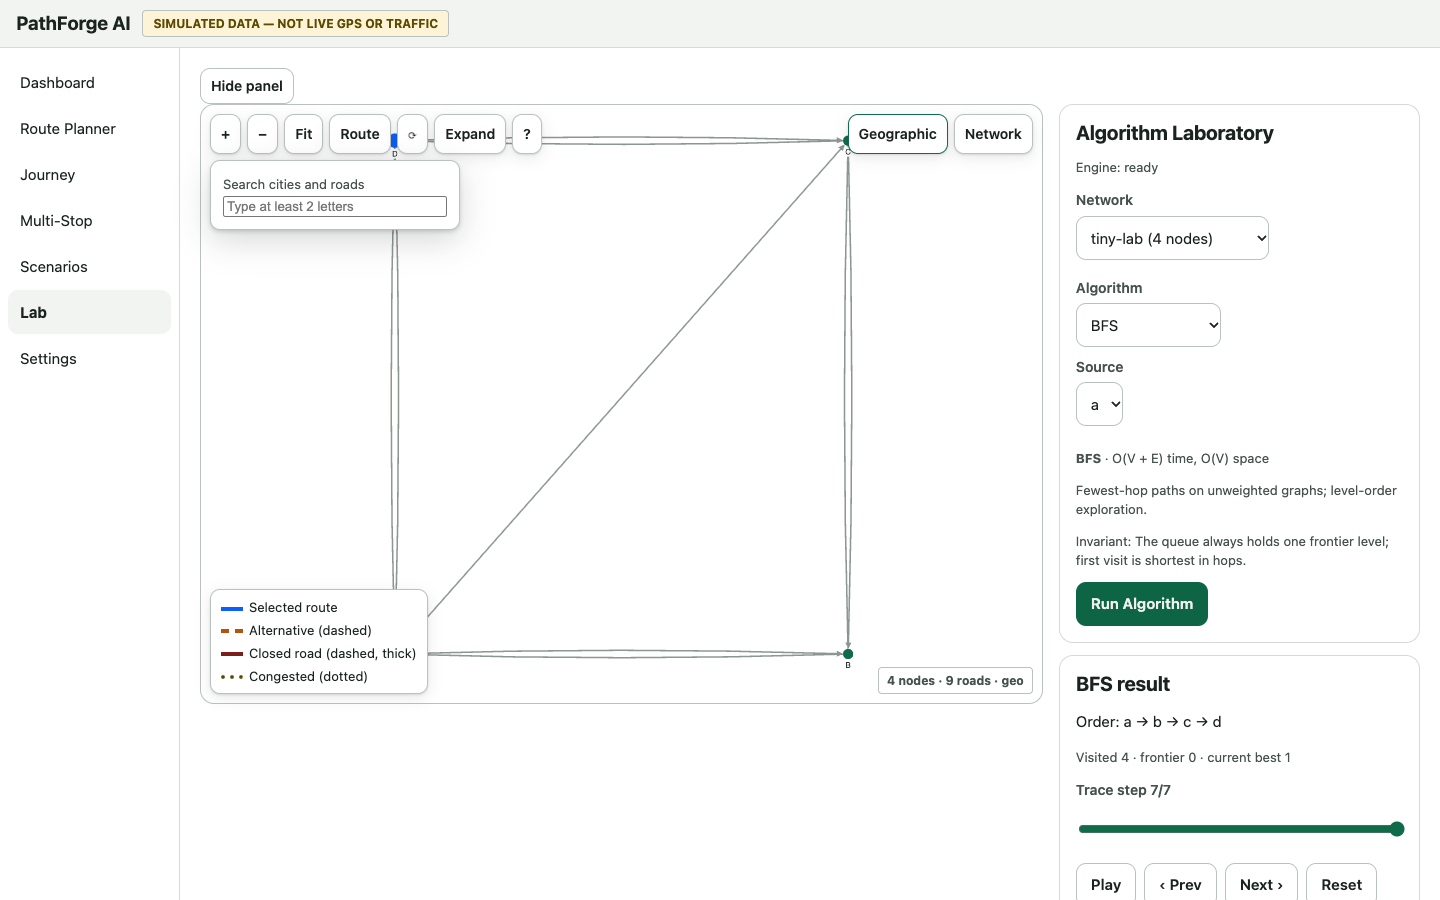
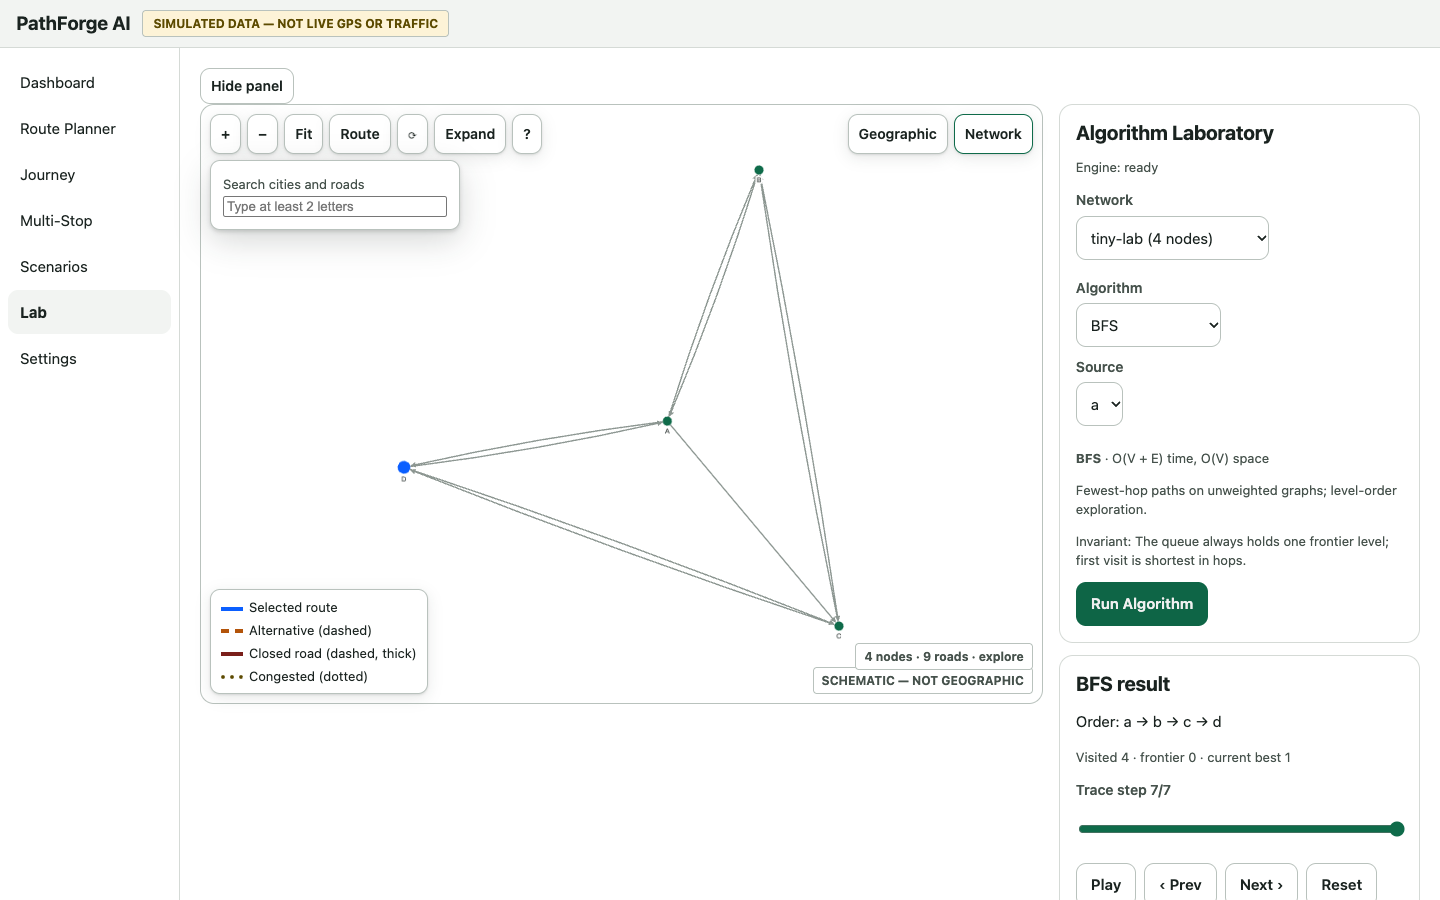
U9: redesign E2E, visual QA fixes, remeasured gates
- e2e/redesign.spec.ts: map controls/views/keyboard/inspectors,
  dashboard entries, panel toggle, lab playback/editor/compare,
  destructive confirms, 390px mobile (16/16 E2E green)
- Visual QA fixes: alt overlay skips shared arcs, route rule wins,
  fit padding 60, lab defaults to explore view, tab nowrap
- Parity 32/32, coverage remeasured (engine unchanged), audit 0 vulns,
  release screenshots refreshed

diff --git a/frontend/e2e/redesign.spec.ts b/frontend/e2e/redesign.spec.ts
@@ -1,0 +1,133 @@
+// U9: redesign interaction coverage against the real engine build.
+// Map controls, views, keyboard, inspectors, dashboard entries, panel
+// toggle, lab playback/editor, destructive confirms, mobile viewport.
+import { expect, test } from '@playwright/test';
+
+test('map controls, views, keyboard, inspectors', async ({ page }) => {
+  await page.goto('/#/route');
+  await expect(page.getByTestId('map')).toBeVisible();
+  // Geographic / network views
+  await page.getByTestId('map-view-explore').click();
+  await expect(page.getByTestId('map-schematic-tag')).toBeVisible();
+  await expect(page.getByTestId('map-stats')).toContainText('explore');
+  await page.getByTestId('map-view-geo').click();
+  await expect(page.getByTestId('map-schematic-tag')).toHaveCount(0);
+  // Expand toggle
+  await page.getByTestId('map-expand').click();
+  await expect(page.getByTestId('map-expand')).toHaveAttribute('aria-pressed', 'true');
+  await page.getByTestId('map-expand').click();
+  await expect(page.getByTestId('map-expand')).toHaveAttribute('aria-pressed', 'false');
+  // Rotate / zoom / fit smoke
+  await page.getByTestId('map-rotate').click();
+  await page.getByTestId('map-zoom-in').click();
+  await page.getByTestId('map-zoom-out').click();
+  await page.getByTestId('map-fit').click();
+  await expect(page.getByTestId('map')).toBeVisible();
+  // Keyboard shortcuts dialog
+  await page.getByTestId('map').press('?');
+  await expect(page.getByTestId('map-shortcuts')).toBeVisible();
+  await page.getByTestId('map').press('Escape');
+  await expect(page.getByTestId('map-shortcuts')).toHaveCount(0);
+  // City inspector via search
+  await page.getByTestId('map-search').fill('delh');
+  await page.getByTestId('map-search-option-delhi').click();
+  await expect(page.getByTestId('inspector-drawer')).toBeVisible();
+  await expect(page.getByTestId('inspector-drawer')).toContainText('delhi');
+  await page.getByTestId('inspector-close').click();
+  await expect(page.getByTestId('inspector-drawer')).toHaveCount(0);
+  // Road inspector via search
+  await page.getByTestId('map-search').fill('ex06');
+  await page.getByTestId('map-search-option-ex06').click();
+  await expect(page.getByTestId('inspector-drawer')).toBeVisible();
+  await expect(page.getByTestId('inspector-road-state')).toBeVisible();
+  await page.getByTestId('map').press('Escape');
+  await expect(page.getByTestId('inspector-drawer')).toHaveCount(0);
+});
+
+test('dashboard command center entries', async ({ page }) => {
+  await page.goto('/#/');
+  await expect(page.getByTestId('dash-metrics')).toBeVisible();
+  await expect(page.getByTestId('dash-route-summary')).toBeVisible();
+  await expect(page.getByTestId('dash-traffic')).toBeVisible();
+  await page.getByTestId('dash-entry-route').click();
+  await expect(page).toHaveURL(/#\/route/);
+  await page.goto('/#/');
+  await page.getByTestId('dash-entry-lab').click();
+  await expect(page).toHaveURL(/#\/lab/);
+});
+
+test('panel toggle collapses workspace', async ({ page }) => {
+  await page.goto('/#/route');
+  const toggle = page.getByTestId('panel-toggle');
+  await toggle.click();
+  await expect(toggle).toHaveAttribute('aria-expanded', 'false');
+  await expect(toggle).toContainText('Show panel');
+  await toggle.click();
+  await expect(toggle).toHaveAttribute('aria-expanded', 'true');
+});
+
+test('lab playback and editor', async ({ page }) => {
+  await page.goto('/#/lab');
+  await expect(page.getByTestId('lab-algo-info')).toBeVisible();
+  await page.getByTestId('lab-run').click();
+  await expect(page.getByTestId('lab-result')).toBeVisible();
+  await expect(page.getByTestId('trace-events')).toBeVisible();
+  await expect(page.getByTestId('lab-live-stats')).toBeVisible();
+  await page.getByTestId('lab-reset').click();
+  await expect(page.getByTestId('lab-step')).toHaveValue('0');
+  await page.getByTestId('lab-next').click();
+  await expect(page.getByTestId('lab-step')).toHaveValue('1');
+  await page.getByTestId('lab-prev').click();
+  await expect(page.getByTestId('lab-step')).toHaveValue('0');
+  await page.getByTestId('lab-speed').selectOption('2');
+  await expect(page.getByTestId('lab-speed')).toHaveValue('2');
+  // Editor: example graph validates clean
+  await page.getByTestId('lab-net').selectOption('custom');
+  await page.getByTestId('lab-example-line').click();
+  await page.getByTestId('lab-validate').click();
+  await expect(page.getByTestId('lab-valid-ok')).toBeVisible();
+  // Compare table with agreement fact
+  await page.getByTestId('lab-compare').click();
+  await expect(page.getByTestId('lab-compare-out')).toBeVisible();
+  await expect(page.getByTestId('lab-cost-agreement')).toBeVisible();
+});
+
+test('destructive confirms guard traffic and tours', async ({ page }) => {
+  await page.goto('/#/route');
+  await page.getByTestId('traffic-add').click();
+  await expect(page.getByTestId('overlay-version')).toContainText('1 incident');
+  await page.getByTestId('traffic-clear-all').click();
+  await expect(page.getByTestId('traffic-clear-dialog')).toBeVisible();
+  await page.getByTestId('traffic-clear-cancel').click();
+  await expect(page.getByTestId('overlay-version')).toContainText('1 incident');
+  await page.getByTestId('traffic-clear-all').click();
+  await page.getByTestId('traffic-clear-confirm').click();
+  await expect(page.getByTestId('overlay-version')).toContainText('0 incident');
+
+  await page.goto('/#/multistop');
+  await page.getByTestId('tour-name').fill('U9tour');
+  await page.getByTestId('tour-save').click();
+  const row = page.locator('li', { hasText: 'U9tour' });
+  await expect(row).toBeVisible();
+  await row.getByRole('button', { name: 'Delete' }).click();
+  await expect(page.getByTestId('tour-delete-dialog')).toBeVisible();
+  await page.getByTestId('tour-delete-confirm').click();
+  await expect(row).toHaveCount(0);
+});
+
+test.describe('mobile viewport', () => {
+  test.use({ viewport: { width: 390, height: 844 } });
+
+  test('nav drawer and panel toggle work at 390px', async ({ page }) => {
+    await page.goto('/#/route');
+    await expect(page.getByTestId('nav-toggle')).toBeVisible();
+    await page.getByTestId('nav-toggle').click();
+    await expect(page.getByRole('navigation', { name: 'Primary' })).toBeVisible();
+    await page.getByRole('link', { name: 'Journey' }).click();
+    await expect(page).toHaveURL(/#\/journey/);
+    const toggle = page.getByTestId('panel-toggle');
+    await toggle.click();
+    await expect(toggle).toContainText('Show panel');
+    await expect(page.getByTestId('map')).toBeVisible();
+  });
+});

diff --git a/frontend/src/components/MapView.tsx b/frontend/src/components/MapView.tsx
@@ -33,6 +33,7 @@ export interface MapViewProps {
   onSetOrigin?: (id: string) => void;
   onSetDestination?: (id: string) => void;
   statsExtra?: string;
+  defaultView?: MapViewMode;
 }
 
 function roadEnds(net: Dataset, vertexId: string) {
@@ -42,7 +43,7 @@ function roadEnds(net: Dataset, vertexId: string) {
 export default function MapView(props: MapViewProps) {
   const {
     routeArcIds, altArcIds, visitedIds, frontierIds, currentId, originId, destId, stopIds, stopOrder,
-    cyOut, network, onSetOrigin, onSetDestination, statsExtra,
+    cyOut, network, onSetOrigin, onSetDestination, statsExtra, defaultView,
   } = props;
   const ref = useRef<HTMLDivElement>(null);
   const wrapRef = useRef<HTMLDivElement>(null);
@@ -52,7 +53,7 @@ export default function MapView(props: MapViewProps) {
   const closures = useTraffic((s) => s.closures);
   const incidents = useTraffic((s) => s.incidents);
   const factors = useTraffic((s) => s.factors);
-  const [view, setView] = useState<MapViewMode>('geo');
+  const [view, setView] = useState<MapViewMode>(defaultView ?? 'geo');
   const [rotation, setRotation] = useState(0);
   const [expanded, setExpanded] = useState(false);
   const [inspectNode, setInspectNode] = useState<string | null>(null);
@@ -67,7 +68,10 @@ export default function MapView(props: MapViewProps) {
     cy.batch(() => {
       cy.edges().removeClass('route alt closed congested search-hit');
       for (const id of routeArcIds) cy.getElementById(id).addClass('route');
-      for (const id of altArcIds ?? []) cy.getElementById(id).addClass('alt');
+      const routeSet = new Set(routeArcIds);
+      for (const id of altArcIds ?? []) {
+        if (!routeSet.has(id)) cy.getElementById(id).addClass('alt');
+      }
       cy.nodes().removeClass('visited frontier current origin dest stop');
       for (const id of visitedIds ?? []) cy.getElementById(id).addClass('visited');
       for (const id of frontierIds ?? []) cy.getElementById(id).addClass('frontier');
@@ -193,11 +197,11 @@ export default function MapView(props: MapViewProps) {
             'control-point-step-size': 28,
           },
         },
-        { selector: 'edge.route', style: { 'line-color': routeCol, 'target-arrow-color': routeCol, width: 7 } },
         {
           selector: 'edge.alt',
           style: { 'line-color': altCol, 'target-arrow-color': altCol, width: 5, 'line-style': 'dashed' },
         },
+        { selector: 'edge.route', style: { 'line-color': routeCol, 'target-arrow-color': routeCol, width: 7 } },
         {
           selector: 'edge.closed',
           style: { 'line-color': closedCol, 'target-arrow-color': closedCol, width: 7, 'line-style': 'dashed' },
@@ -222,7 +226,7 @@ export default function MapView(props: MapViewProps) {
     cyRef.current = cy;
     if (cyOut) cyOut.current = cy;
     window.__PF_DEBUG__ = { cy };
-    cy.fit(undefined, 30);
+    cy.fit(undefined, 60);
     let timer = 0;
     const schedule = () => {
       window.clearTimeout(timer);
@@ -308,7 +312,7 @@ export default function MapView(props: MapViewProps) {
     const h = (el?.clientHeight ?? 600) / 2;
     cy.zoom({ level: cy.zoom() * factor, renderedPosition: { x: cx, y: h } });
   };
-  const fitAll = () => cyRef.current?.fit(undefined, 30);
+  const fitAll = () => cyRef.current?.fit(undefined, 60);
   const centerRoute = () => {
     const cy = cyRef.current;
     if (!cy) return;

diff --git a/frontend/src/pages/Lab.tsx b/frontend/src/pages/Lab.tsx
@@ -254,7 +254,7 @@ export default function Lab() {
       <div className={`pf-workspace${panelHidden ? ' panel-hidden' : ''}`}>
         <div className="pf-map-wrap">
           <MapView network={net} routeArcIds={step >= (result?.trace.length ?? 0) ? routeArcs : tracedArcs}
-            visitedIds={visited} frontierIds={frontier} currentId={current} />
+            visitedIds={visited} frontierIds={frontier} currentId={current} defaultView="explore" />
         </div>
         <div className="pf-panel">
           <section className="pf-card" aria-label="Lab controls">

diff --git a/frontend/src/styles/tokens.css b/frontend/src/styles/tokens.css
@@ -197,6 +197,7 @@ h1, h2, h3 { line-height: 1.2; letter-spacing: -0.01em; }
   font: inherit; font-size: var(--pf-body); font-weight: 600; color: var(--pf-ink-soft);
   background: none; border: 0; border-bottom: 3px solid transparent;
   padding: 10px 14px; margin-bottom: -2px; cursor: pointer; min-height: 44px;
+  white-space: nowrap;
 }
 .pf-tab[aria-selected="true"] { color: var(--pf-ink); border-bottom-color: var(--pf-accent); }
 

diff --git a/docs/testing/coverage.md b/docs/testing/coverage.md
@@ -1,6 +1,6 @@
 # C++ line coverage (M11, measured)
 
-- build: Debug + --coverage, Apple clang 21, 47bd961
+- build: Debug + --coverage, Apple clang 21, 56c5616
 - scope: engine/src (*.cpp); executions: full pf_tests suite + all contract
   fixtures via pf_contract_runner + pf_bench (seed 42)
 
